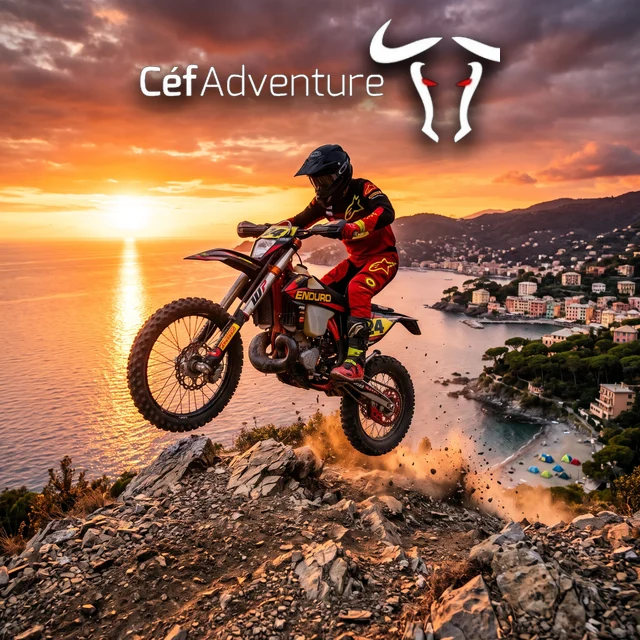
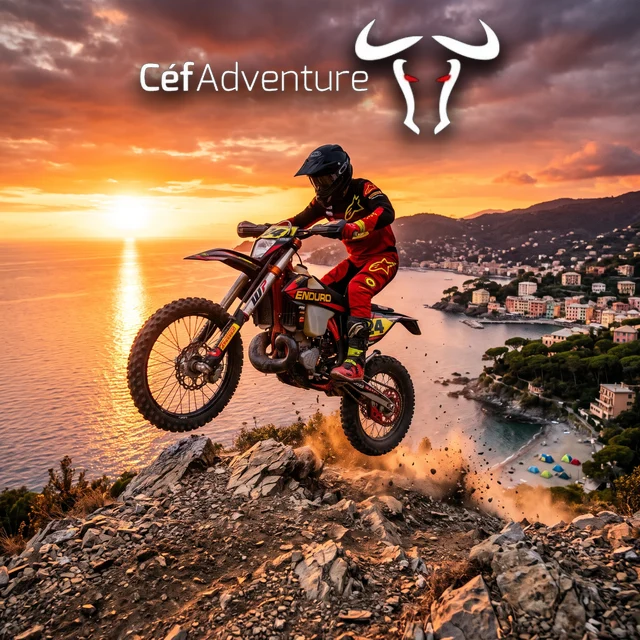
next v144 / v2 n. 44: copertina Cef, tolto solo il 2018 (corno intero)
Claude-Session: https://claude.ai/code/session_01NjZ5nBkwQLXqzaf4ei9CTY

Changed region(s): [[0.2188, 0.0312, 0.7812, 0.25]]

diff --git a/next/gioco.js b/next/gioco.js
@@ -978,13 +978,13 @@ const canzoneGara = () => musSel === 'sua' ? SUA[PID] : musSel === 'caso' ? CANZ
 const NOW = { pilota: PL.id, moto: BK.id, pista: PID, meteo: METEO, ora: ORA }, SEL = { ...NOW }, dirty = () => SEL.pilota !== NOW.pilota || SEL.moto !== NOW.moto || SEL.pista !== NOW.pista || SEL.meteo !== NOW.meteo || SEL.ora !== NOW.ora || (SEL.pilota === 'mio' && mioDirty) || upDirty; let mioDirty = false, upDirty = false;
 function menuDraw() { const p = pById(SEL.pilota), m = motoById(SEL.moto), t = PISTE.find(x => x.id === SEL.pista);
   $('cNum').textContent = String(p.num).padStart(2, '0'); $('cFoto').src = p.id === 'mio' ? '../edt-logo-small.jpg' : 'piloti/' + p.id + '.webp?v=1'; $('cName').textContent = p.name; $('cRole').textContent = (p.ruolo || '') + (ABIL[p.id] ? ' · ' + ABIL[p.id][1] : ''); $('cMoto').textContent = m.name;
-  $('tPs').textContent = t.ps; $('tName').textContent = t.name; $('ptxt').textContent = t.txt; $('tImg').src = 'menu/t-' + t.id + '.webp?v=6';
+  $('tPs').textContent = t.ps; $('tName').textContent = t.name; $('ptxt').textContent = t.txt; $('tImg').src = 'menu/t-' + t.id + '.webp?v=7';
   const bst = t.id === 's' ? 0 : parseFloat(opt('best3' + (t.id === 'g' ? '' : t.id), '0')) || 0; $('tRec').textContent = t.id === 's' ? 'FINITA LA SCUOLA SI PASSA AL GIRO EASY' : (bst ? 'IL TUO RECORD: ' + bst.toFixed(1).replace('.', ',') + ' s' : 'NESSUN RECORD: È IL MOMENTO') + ' · ORO ' + t.med[0] + ' s · ARGENTO ' + t.med[1] + ' s · BRONZO ' + t.med[2] + ' s';
   $('goS').textContent = p.name + ' · ' + m.name + ' · ' + t.name + (dirty() ? ' — CARICO E SI PARTE' : '');
   for (const e of document.querySelectorAll('#gPil .card')) e.classList.toggle('on', e.dataset.id === SEL.pilota); for (const e of document.querySelectorAll('#gMoto .card')) e.classList.toggle('on', e.dataset.id === SEL.moto); for (const e of document.querySelectorAll('#gTr .card')) e.classList.toggle('on', e.dataset.id === SEL.pista);
   for (const e of document.querySelectorAll('.card .in')) e.remove(); for (const e of document.querySelectorAll('.card.on')) { const i = document.createElement('i'); i.className = 'in'; i.textContent = e.parentNode.id === 'gPil' ? 'IN SELLA' : e.parentNode.id === 'gMoto' ? 'IN GARAGE' : 'SI VA QUI'; e.appendChild(i); } }
 { const pick = (k, id) => { SEL[k] = id; setOpt(k, id); menuDraw(); }, bar = (n, v) => `${n}<i><u style="width:${Math.round(clamp((v - .6) / .9, .08, 1) * 100)}%"></u></i>`;
-  $('gTr').innerHTML = PISTE.map(t => `<button class="card" type="button" data-id="${t.id}"><img src="menu/t-${t.id}.webp?v=6" alt="" loading="lazy"><b>${t.name}</b><span>${t.short}</span></button>`).join('');
+  $('gTr').innerHTML = PISTE.map(t => `<button class="card" type="button" data-id="${t.id}"><img src="menu/t-${t.id}.webp?v=7" alt="" loading="lazy"><b>${t.name}</b><span>${t.short}</span></button>`).join('');
   window.profDrawImpl = () => { const p = profGet(), li = livInfo(p.xp); let e = $('prof'); if (!e) { e = document.createElement('div'); e.id = 'prof'; $('chip').parentNode.insertBefore(e, $('chip')); }
     e.innerHTML = '<b>LIVELLO ' + li.level + ' · ' + li.grado.toUpperCase() + '</b><i><u style="width:' + Math.round(li.pct * 100) + '%"></u></i><span>' + (li.need - li.into) + ' al prossimo · 🍺 ' + p.birre + '</span>';
     let g = $('gUp'); if (!g) { const sec = document.createElement('section'); sec.className = 'sec'; sec.innerHTML = '<h2><small>L\u2019OFFICINA</small>POTENZIAMENTI</h2><div id="gUp"></div>'; $('sMoto').parentNode.insertBefore(sec, $('sMoto').nextSibling); g = $('gUp');

diff --git a/v2/game.js b/v2/game.js
@@ -260,7 +260,7 @@ const feat = k => !!P.MODES[mode][k] || rule(k);
 // v58 · ogni percorso ha la sua immagine (img/track-N.webp); alcune sono illustrazioni dedicate
 const TRACK_ART_FILE = { 1: '../v2/salita-infame', 2: 'angelo-potter-card', 9: 'ice-scrofy', 13: 'anti-gev', 14: 'gusta-ranch', 17: 'christmas-madness', 18: 'leventino', 20: 'mirco-gabbah-fest', 21: 'leventino-vietnam-2', 22: 'track-0' };   // v160 · 22 = giro di prova: prima chiedeva un'immagine che non esiste
 const psOf = m => Math.max(1, P.SHOWN().indexOf(m) + 1);   // v59 · numero di prova speciale contando solo i percorsi in menu
-const trackArtOf = m => m.id === 23 ? 'next/menu/t-e.webp?v=6' : 'img/' + (TRACK_ART_FILE[m.id] || 'track-' + m.id) + '.webp?t=1';
+const trackArtOf = m => m.id === 23 ? 'next/menu/t-e.webp?v=7' : 'img/' + (TRACK_ART_FILE[m.id] || 'track-' + m.id) + '.webp?t=1';
 // v57 · Anti-GEV: jeep delle Guardie Ecologiche Volontarie a bordo pista (z in metri davanti alla moto, negativo = davanti)
 // v59 · salto di Angelo
 let leapMul = 1, leapZRate = .5, leapFree = 1, canyonX0 = null, canyonLen = 400, canyonLand = 0, leapTurbo = false, leapV = 10;
@@ -5031,7 +5031,7 @@ function startNext() {
   $('overlay').classList.add('hidden'); setMenu(false); $('pops').innerHTML = ''; setDisabled(true);
   startMusic();
   const st = P.currentStats(), parts = P.currentParts(), upg = {}; for (const u of P.UPGRADES) upg[u.id] = Math.min(5, P.upgradeLevel(u.id));
-  const q = new URLSearchParams({ embed: '1', ...(mode === 3 ? { meteo: V2_DAILY.r === 'rain' ? 'p' : V2_DAILY.r === 'fog' ? 'n' : 's', ora: V2_DAILY.r === 'night' ? 'n' : 'g' } : {}), pista: NEXT_PISTA[mode], moto: NEXT_BIKE[P.currentBike().id] || 'enduro', rider: profile.rider, num: String(profile.custom?.num || ''), mus: '0', shadow: '1', st: JSON.stringify(st), prof: JSON.stringify({ v2: 1, up: upg }), casco: parts.casco?.color || '', fiamma: parts.fiamma?.color || '', v: 'v2-43' }).toString();
+  const q = new URLSearchParams({ embed: '1', ...(mode === 3 ? { meteo: V2_DAILY.r === 'rain' ? 'p' : V2_DAILY.r === 'fog' ? 'n' : 's', ora: V2_DAILY.r === 'night' ? 'n' : 'g' } : {}), pista: NEXT_PISTA[mode], moto: NEXT_BIKE[P.currentBike().id] || 'enduro', rider: profile.rider, num: String(profile.custom?.num || ''), mus: '0', shadow: '1', st: JSON.stringify(st), prof: JSON.stringify({ v2: 1, up: upg }), casco: parts.casco?.color || '', fiamma: parts.fiamma?.color || '', v: 'v2-44' }).toString();
   const host = fsTarget || document.fullscreenElement || document.webkitFullscreenElement || document.body;   // dentro l'elemento che va a schermo intero, altrimenti resterebbe sotto
   if (nextFrame && nextCfg === q && nextFrame.isConnected) { if (nextFrame.parentNode !== host) host.appendChild(nextFrame); nextFrame.style.display = 'block'; nextFrame.contentWindow.postMessage({ t: 'edt-next-restart' }, location.origin); nextFrame.focus(); return; }
   nextFrame?.remove(); nextCfg = q;

diff --git a/next/index.html b/next/index.html
@@ -116,7 +116,7 @@ canvas { position: fixed; inset: 0; width: 100%; height: 100%; display: block; }
 <div class="hud" id="spd">0<small>KM/H</small></div>
 <div class="hud" id="tim">0.0<small id="best"></small></div>
 <div class="hud" id="bar"><i></i></div>
-<div class="hud" id="tag">PROVA · PISTA VERA 3D · TAPPA 1 · PERCORSO ENDURO · v143</div>
+<div class="hud" id="tag">PROVA · PISTA VERA 3D · TAPPA 1 · PERCORSO ENDURO · v144</div>
 <div class="hud hidden" id="tip"></div>
 <div class="hud" id="msg"></div>
 <div id="fine" class="hide"><div class="fb"><small id="fTr"></small><h2 id="fPos"></h2><div id="fTime"></div><div id="fMed"></div><div id="fProf"></div><div class="fc"><ul id="fRows"></ul><ol id="fOrd"></ol></div><div class="frow"><button id="fAgain" type="button">RIPROVA</button><button id="fShare" type="button">SFIDA UN AMICO</button><button id="fMenu" type="button">MENU</button></div></div></div>
@@ -157,7 +157,7 @@ canvas { position: fixed; inset: 0; width: 100%; height: 100%; display: block; }
  </div>
 </div>
 <script>/* si aggiorna da sola: se in rete c'è una versione più nuova di questa pagina, la ricarica saltando la memoria del telefono */
-(function () { var V = 143; fetch('versione.txt?t=' + Date.now(), { cache: 'no-store' }).then(function (r) { return r.text(); }).then(function (t) { var n = parseInt(t, 10); if (n > V && !new RegExp('[?&]v=' + n + '(&|$)').test(location.search)) location.replace(location.pathname + '?v=' + n); }).catch(function () {}); })();</script>
-<script type="module" src="gioco.js?v=143"></script>
+(function () { var V = 144; fetch('versione.txt?t=' + Date.now(), { cache: 'no-store' }).then(function (r) { return r.text(); }).then(function (t) { var n = parseInt(t, 10); if (n > V && !new RegExp('[?&]v=' + n + '(&|$)').test(location.search)) location.replace(location.pathname + '?v=' + n); }).catch(function () {}); })();</script>
+<script type="module" src="gioco.js?v=144"></script>
 </body>
 </html>

diff --git a/v2/index.html b/v2/index.html
@@ -49,7 +49,7 @@ window.EDT_BOARD_URL = 'https://invalid.invalid/exec';
 <link rel="preload" href="anton.woff2" as="font" type="font/woff2" crossorigin>
 <link rel="stylesheet" href="style.css?v=48f0280c">
 <!-- v109.3 · il telefono scarica subito tutti i pezzi del gioco in parallelo, invece che uno dopo l'altro -->
-<link rel="modulepreload" href="v2/game.js?v=9f5d5f99">
+<link rel="modulepreload" href="v2/game.js?v=58e87293">
 <link rel="modulepreload" href="physics.js?v=b9c35116">
 <link rel="modulepreload" href="audio.js?v=3afc3a91">
 <link rel="modulepreload" href="v2/progress.js?v=3da2f9a2">
@@ -206,6 +206,6 @@ window.EDT_BOARD_URL = 'https://invalid.invalid/exec';
     <span>Arriva al rifugio prima del tempo massimo.</span>
   </footer>
 </div>
-<script type="module" src="v2/game.js?v=9f5d5f99"></script>
+<script type="module" src="v2/game.js?v=58e87293"></script>
 </body>
 </html>

diff --git a/tools/v2.py b/tools/v2.py
@@ -11,7 +11,7 @@ import hashlib, os, re, sys
 
 ROOT = os.path.dirname(os.path.dirname(os.path.abspath(__file__)))
 os.makedirs(os.path.join(ROOT, 'v2'), exist_ok=True)
-V2 = 43   # versione della prova: si alza a ogni modifica dell'incastro
+V2 = 44   # versione della prova: si alza a ogni modifica dell'incastro
 
 
 def rep(s, old, new, what):
@@ -34,7 +34,7 @@ const V2_DAILY = (() => { const k = +P.todayKey() || 0, T = [[0, 'g'], [1, 'i'],
 { const m = P.MODES.find(x => x.id === 1); if (m) { m.name = 'Salita Infame'; m.short = 'INFAME'; m.desc = 'Il muro coi gradoni, la pietraia in salita, i tornanti di mulattiera e la cresta in single track. Poi giù a rotta di collo.'; } }
 import * as D from '../duel.js""", 'import duel')
 
-g = rep(g, "const trackArtOf = m => 'img/' + (TRACK_ART_FILE[m.id] || 'track-' + m.id) + '.webp?t=1';", "const trackArtOf = m => m.id === 23 ? 'next/menu/t-e.webp?v=6' : 'img/' + (TRACK_ART_FILE[m.id] || 'track-' + m.id) + '.webp?t=1';", 'copertina Cef')
+g = rep(g, "const trackArtOf = m => 'img/' + (TRACK_ART_FILE[m.id] || 'track-' + m.id) + '.webp?t=1';", "const trackArtOf = m => m.id === 23 ? 'next/menu/t-e.webp?v=7' : 'img/' + (TRACK_ART_FILE[m.id] || 'track-' + m.id) + '.webp?t=1';", 'copertina Cef')
 g = rep(g, "<div><b>${run.jumps}</b><small>SALTI</small></div>", "<div><b>${run.jumps}</b><small>${NEXT_PISTA[mode] !== undefined ? 'TRONCHI' : 'SALTI'}</small></div>", 'tronchi')
 
 # 2b) la Shadow chiodata in garage: moto bonus, si sblocca con una medaglia su Ice Scrofy
